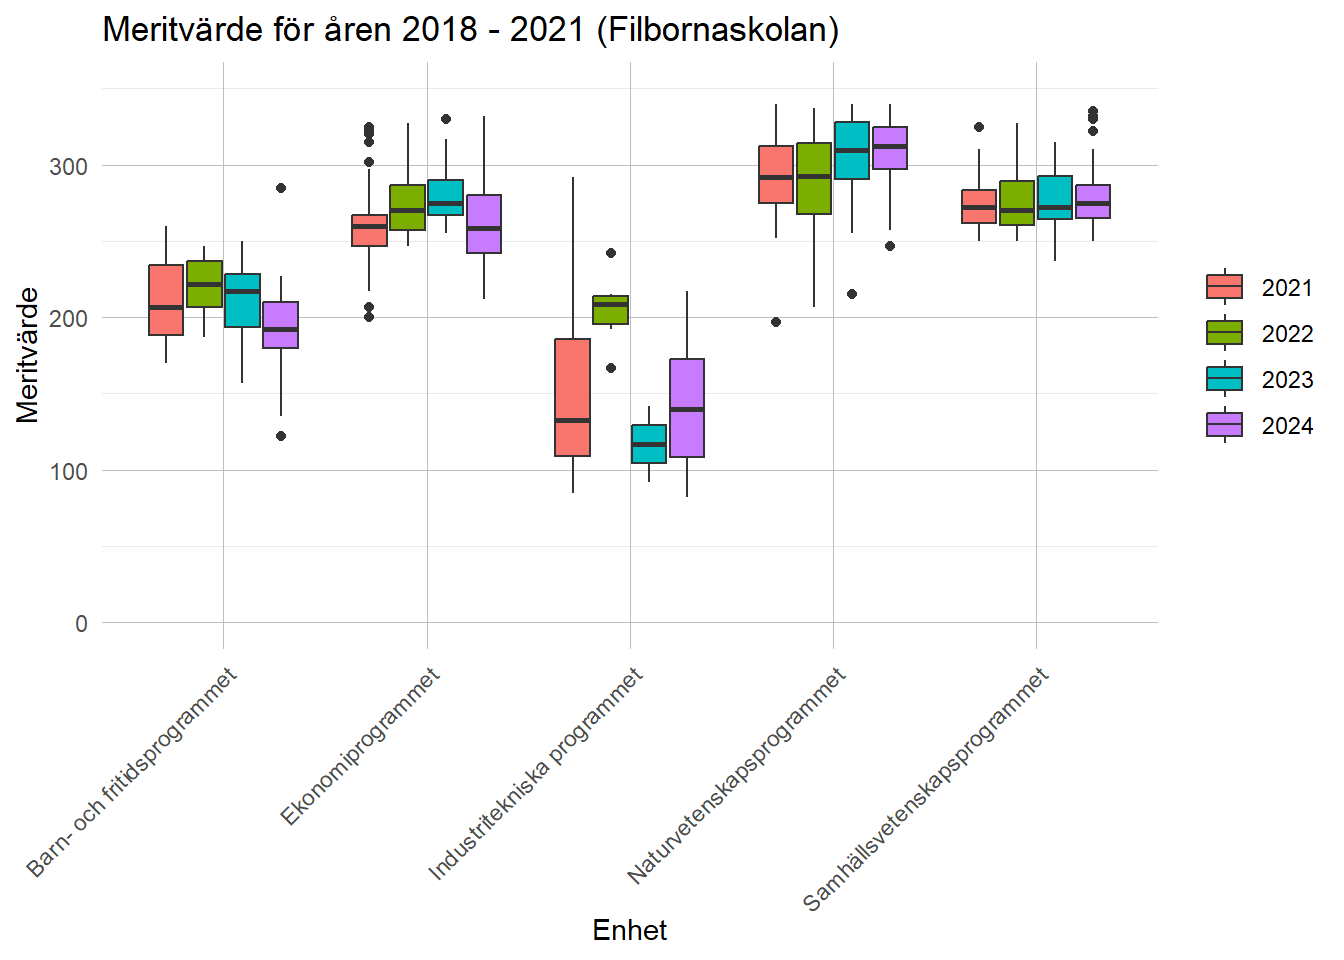
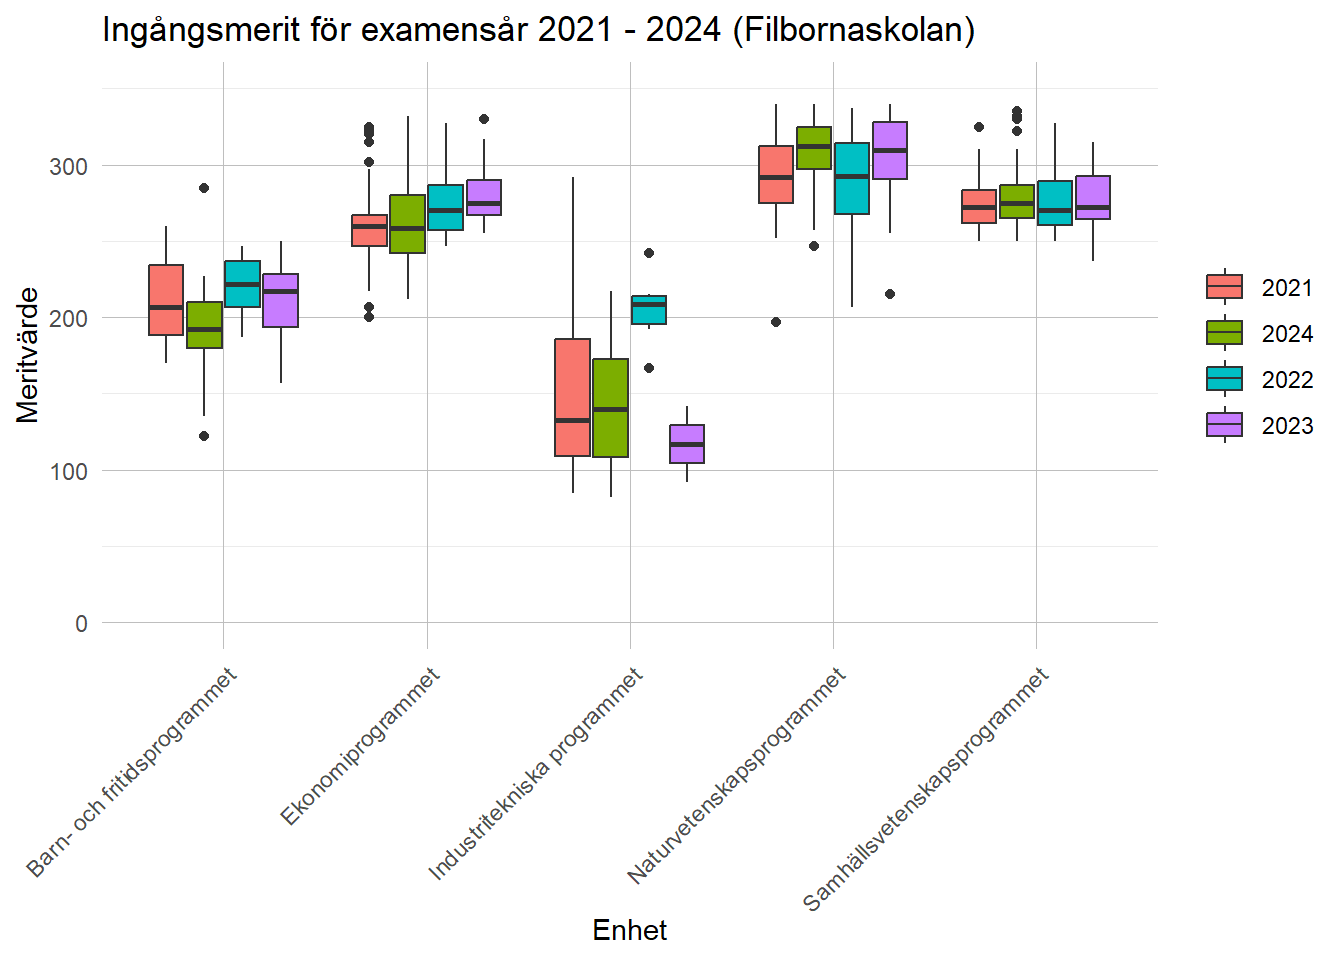
br2

diff --git a/index.html b/index.html
@@ -585,8 +585,10 @@ Figure&nbsp;8
 </section>
 <section id="vad-har-hänt-under-2022---2024" class="level1">
 <h1>Vad har hänt under 2022 - 2024</h1>
-<p><a href="#fig-plot2" class="quarto-xref">Figure&nbsp;2</a> i början av dokumentet visar förändringen av ingångsmeritvärden fram till antagningsår 2021, eftersom de är de senaste som tog examen. Men vi har därefter gjort ytterligare tre antagningsomgångar, hur ser fördelningen av meritvärde ut för dessa senare antagningsår?</p>
-<p><a href="#fig-meritalla3" class="quarto-xref">Figure&nbsp;9</a> är en fortsättning på grafen ovan. Sista året i första grafen (2021 Lila) är första året i andra grafen (också lila). Vi noterar att för elever antagna HT2022, dvs de som kommer ta examen 2025 så var antagningspoängen ännu lägre än de som gick ut 2024. Antagningsåren 2023-2024 är lite mer varierade där vissa skolor har bättre meritvärden och andra sämre.</p>
+<p><a href="#fig-plot2" class="quarto-xref">Figure&nbsp;2</a> i början av dokumentet visar förändringen av ingångsmeritvärden fram till antagningsåret 2021, vilket är det senaste året där elever tog examen. Därefter har vi haft ytterligare tre antagningsomgångar. Hur ser fördelningen av meritvärden ut för dessa senare antagningsår?</p>
+<p><a href="#fig-meritalla3" class="quarto-xref">Figure&nbsp;9</a> är en fortsättning på den första grafen. Sista året i den första grafen (2021, lila) är också det första året i den andra grafen. Vi ser att antagningspoängen för elever som antogs till höstterminen 2022 – det vill säga de som kommer ta examen 2025 – var ännu lägre än för de som tog examen 2024. För antagningsåren 2023 och 2024 är variationen större, där vissa skolor har högre meritvärden medan andra har lägre.</p>
+<p><a href="#fig-fram1" class="quarto-xref">Figure&nbsp;10</a> visar även meritvärden för Rönnowska skolan, med en jämförelse mellan elever som tog examen 2024 och de kommande elevkullarna. Vi ser att meritvärdena för de elever som kommer ta examen 2025 i många fall är lägre än de för eleverna som tog examen 2024, vilket kan kopplas till låg genomströmning.</p>
+<p>I <a href="#fig-fram2" class="quarto-xref">Figure&nbsp;11</a> tittar vi igen på Rönnowska och på genomströmningen av elever. Vi har nu inkluderat de elever som kommer ta examen 2025 och hur de ligger till i januari 2025. Den lila stapeln visar andelen elever som började på Rönnowska i åk 1 höstterminen 2022 och som fortfarande är kvar på skolan 2025. Hittills är avhoppen färre än för den föregående årskullen, men samtidigt inte lika bra som för de tidigare åren. Även om vi inte kan dra några stora slutsatser från figuren kan vi med säkerhet säga att genomströmningen för 2025 kommer att vara lägre än för åren 2021–2023. Hur den kommer att stå sig i jämförelse med den låga genomströmningen för 2024 återstår att se.</p>
 <div class="cell">
 <div class="cell-output-display">
 <div id="fig-meritalla3" class="quarto-float quarto-figure quarto-figure-center anchored" width="672">
@@ -601,11 +603,39 @@ Figure&nbsp;9
 </div>
 </div>
 </div>
+<div class="cell">
+<div class="cell-output-display">
+<div id="fig-fram1" class="quarto-float quarto-figure quarto-figure-center anchored" width="672">
+<figure class="quarto-float quarto-float-fig figure">
+<div aria-describedby="fig-fram1-caption-0ceaefa1-69ba-4598-a22c-09a6ac19f8ca">
+<img src="index_files/figure-html/fig-fram1-1.png" id="fig-fram1" class="img-fluid figure-img" width="672">
+</div>
+<figcaption class="quarto-float-caption-bottom quarto-float-caption quarto-float-fig quarto-uncaptioned" id="fig-fram1-caption-0ceaefa1-69ba-4598-a22c-09a6ac19f8ca">
+Figure&nbsp;10
+</figcaption>
+</figure>
+</div>
+</div>
+</div>
+<div class="cell">
+<div class="cell-output-display">
+<div id="fig-fram2" class="quarto-float quarto-figure quarto-figure-center anchored" width="672">
+<figure class="quarto-float quarto-float-fig figure">
+<div aria-describedby="fig-fram2-caption-0ceaefa1-69ba-4598-a22c-09a6ac19f8ca">
+<img src="index_files/figure-html/fig-fram2-1.png" id="fig-fram2" class="img-fluid figure-img" width="672">
+</div>
+<figcaption class="quarto-float-caption-bottom quarto-float-caption quarto-float-fig quarto-uncaptioned" id="fig-fram2-caption-0ceaefa1-69ba-4598-a22c-09a6ac19f8ca">
+Figure&nbsp;11
+</figcaption>
+</figure>
+</div>
+</div>
+</div>
 </section>
 <section id="meritvärden-för-fritstående-och-kommunala-skolor" class="level1">
 <h1>Meritvärden för fritstående och kommunala skolor</h1>
-<p>I <a href="#fig-meritHF" class="quarto-xref">Figure&nbsp;10</a> visas meritvärdesfördelningen för högskoleförberedande program på fristående och kommunala skolor. Även om skillnaden i meritvärde mellan grupperna har varierat, är den alltid märkbar. I grafen är skillnaden mellan år i viss mån svår att urskilja, men medelvärdet har ökat de senaste åren, från 12,7 till 17,9 (se <a href="#tbl-meritHF" class="quarto-xref">Table&nbsp;7</a>). En liknande graf för yrkesprogram visar att skillnaden i meritvärde mellan fristående och kommunala skolor är, på senare år, betydligt mindre (se <a href="#fig-meritYP" class="quarto-xref">Figure&nbsp;11</a>).</p>
-<p>Avslutningsvis visar <a href="#fig-meritbin" class="quarto-xref">Figure&nbsp;12</a> hur elever antagna 2024 fördelas efter meritvärde och regi. Här ingår både nationella program och introduktionsprogram. Vi ser att de kommunala skolorna tar emot merparten av eleverna med meritvärden under 220 poäng, medan de fristående skolorna tar emot en mycket större andel av de elever som har högre meritvärden.</p>
+<p>I <a href="#fig-meritHF" class="quarto-xref">Figure&nbsp;12</a> visas meritvärdesfördelningen för högskoleförberedande program på fristående och kommunala skolor. Även om skillnaden i meritvärde mellan grupperna har varierat, är den alltid märkbar. I grafen är skillnaden mellan år i viss mån svår att urskilja, men medelvärdet har ökat de senaste åren, från 12,7 till 17,9 (se <a href="#tbl-meritHF" class="quarto-xref">Table&nbsp;7</a>). En liknande graf för yrkesprogram visar att skillnaden i meritvärde mellan fristående och kommunala skolor är, på senare år, betydligt mindre (se <a href="#fig-meritYP" class="quarto-xref">Figure&nbsp;13</a>).</p>
+<p>Avslutningsvis visar <a href="#fig-meritbin" class="quarto-xref">Figure&nbsp;14</a> hur elever antagna 2024 fördelas efter meritvärde och regi. Här ingår både nationella program och introduktionsprogram. Vi ser att de kommunala skolorna tar emot merparten av eleverna med meritvärden under 220 poäng, medan de fristående skolorna tar emot en mycket större andel av de elever som har högre meritvärden.</p>
 <div class="cell">
 <div class="cell-output-display">
 <div id="fig-meritHF" class="quarto-float quarto-figure quarto-figure-center anchored" width="672">
@@ -614,7 +644,7 @@ Figure&nbsp;9
 <img src="index_files/figure-html/fig-meritHF-1.png" id="fig-meritHF" class="img-fluid figure-img" width="672">
 </div>
 <figcaption class="quarto-float-caption-bottom quarto-float-caption quarto-float-fig quarto-uncaptioned" id="fig-meritHF-caption-0ceaefa1-69ba-4598-a22c-09a6ac19f8ca">
-Figure&nbsp;10
+Figure&nbsp;12
 </figcaption>
 </figure>
 </div>
@@ -683,7 +713,7 @@ Table&nbsp;7: Meritmedelvärde för högskoleförberedande program
 <img src="index_files/figure-html/fig-meritYP-1.png" id="fig-meritYP" class="img-fluid figure-img" width="672">
 </div>
 <figcaption class="quarto-float-caption-bottom quarto-float-caption quarto-float-fig quarto-uncaptioned" id="fig-meritYP-caption-0ceaefa1-69ba-4598-a22c-09a6ac19f8ca">
-Figure&nbsp;11
+Figure&nbsp;13
 </figcaption>
 </figure>
 </div>
@@ -697,7 +727,7 @@ Figure&nbsp;11
 <img src="index_files/figure-html/fig-meritbin-1.png" id="fig-meritbin" class="img-fluid figure-img" width="672">
 </div>
 <figcaption class="quarto-float-caption-bottom quarto-float-caption quarto-float-fig quarto-uncaptioned" id="fig-meritbin-caption-0ceaefa1-69ba-4598-a22c-09a6ac19f8ca">
-Figure&nbsp;12
+Figure&nbsp;14
 </figcaption>
 </figure>
 </div>
